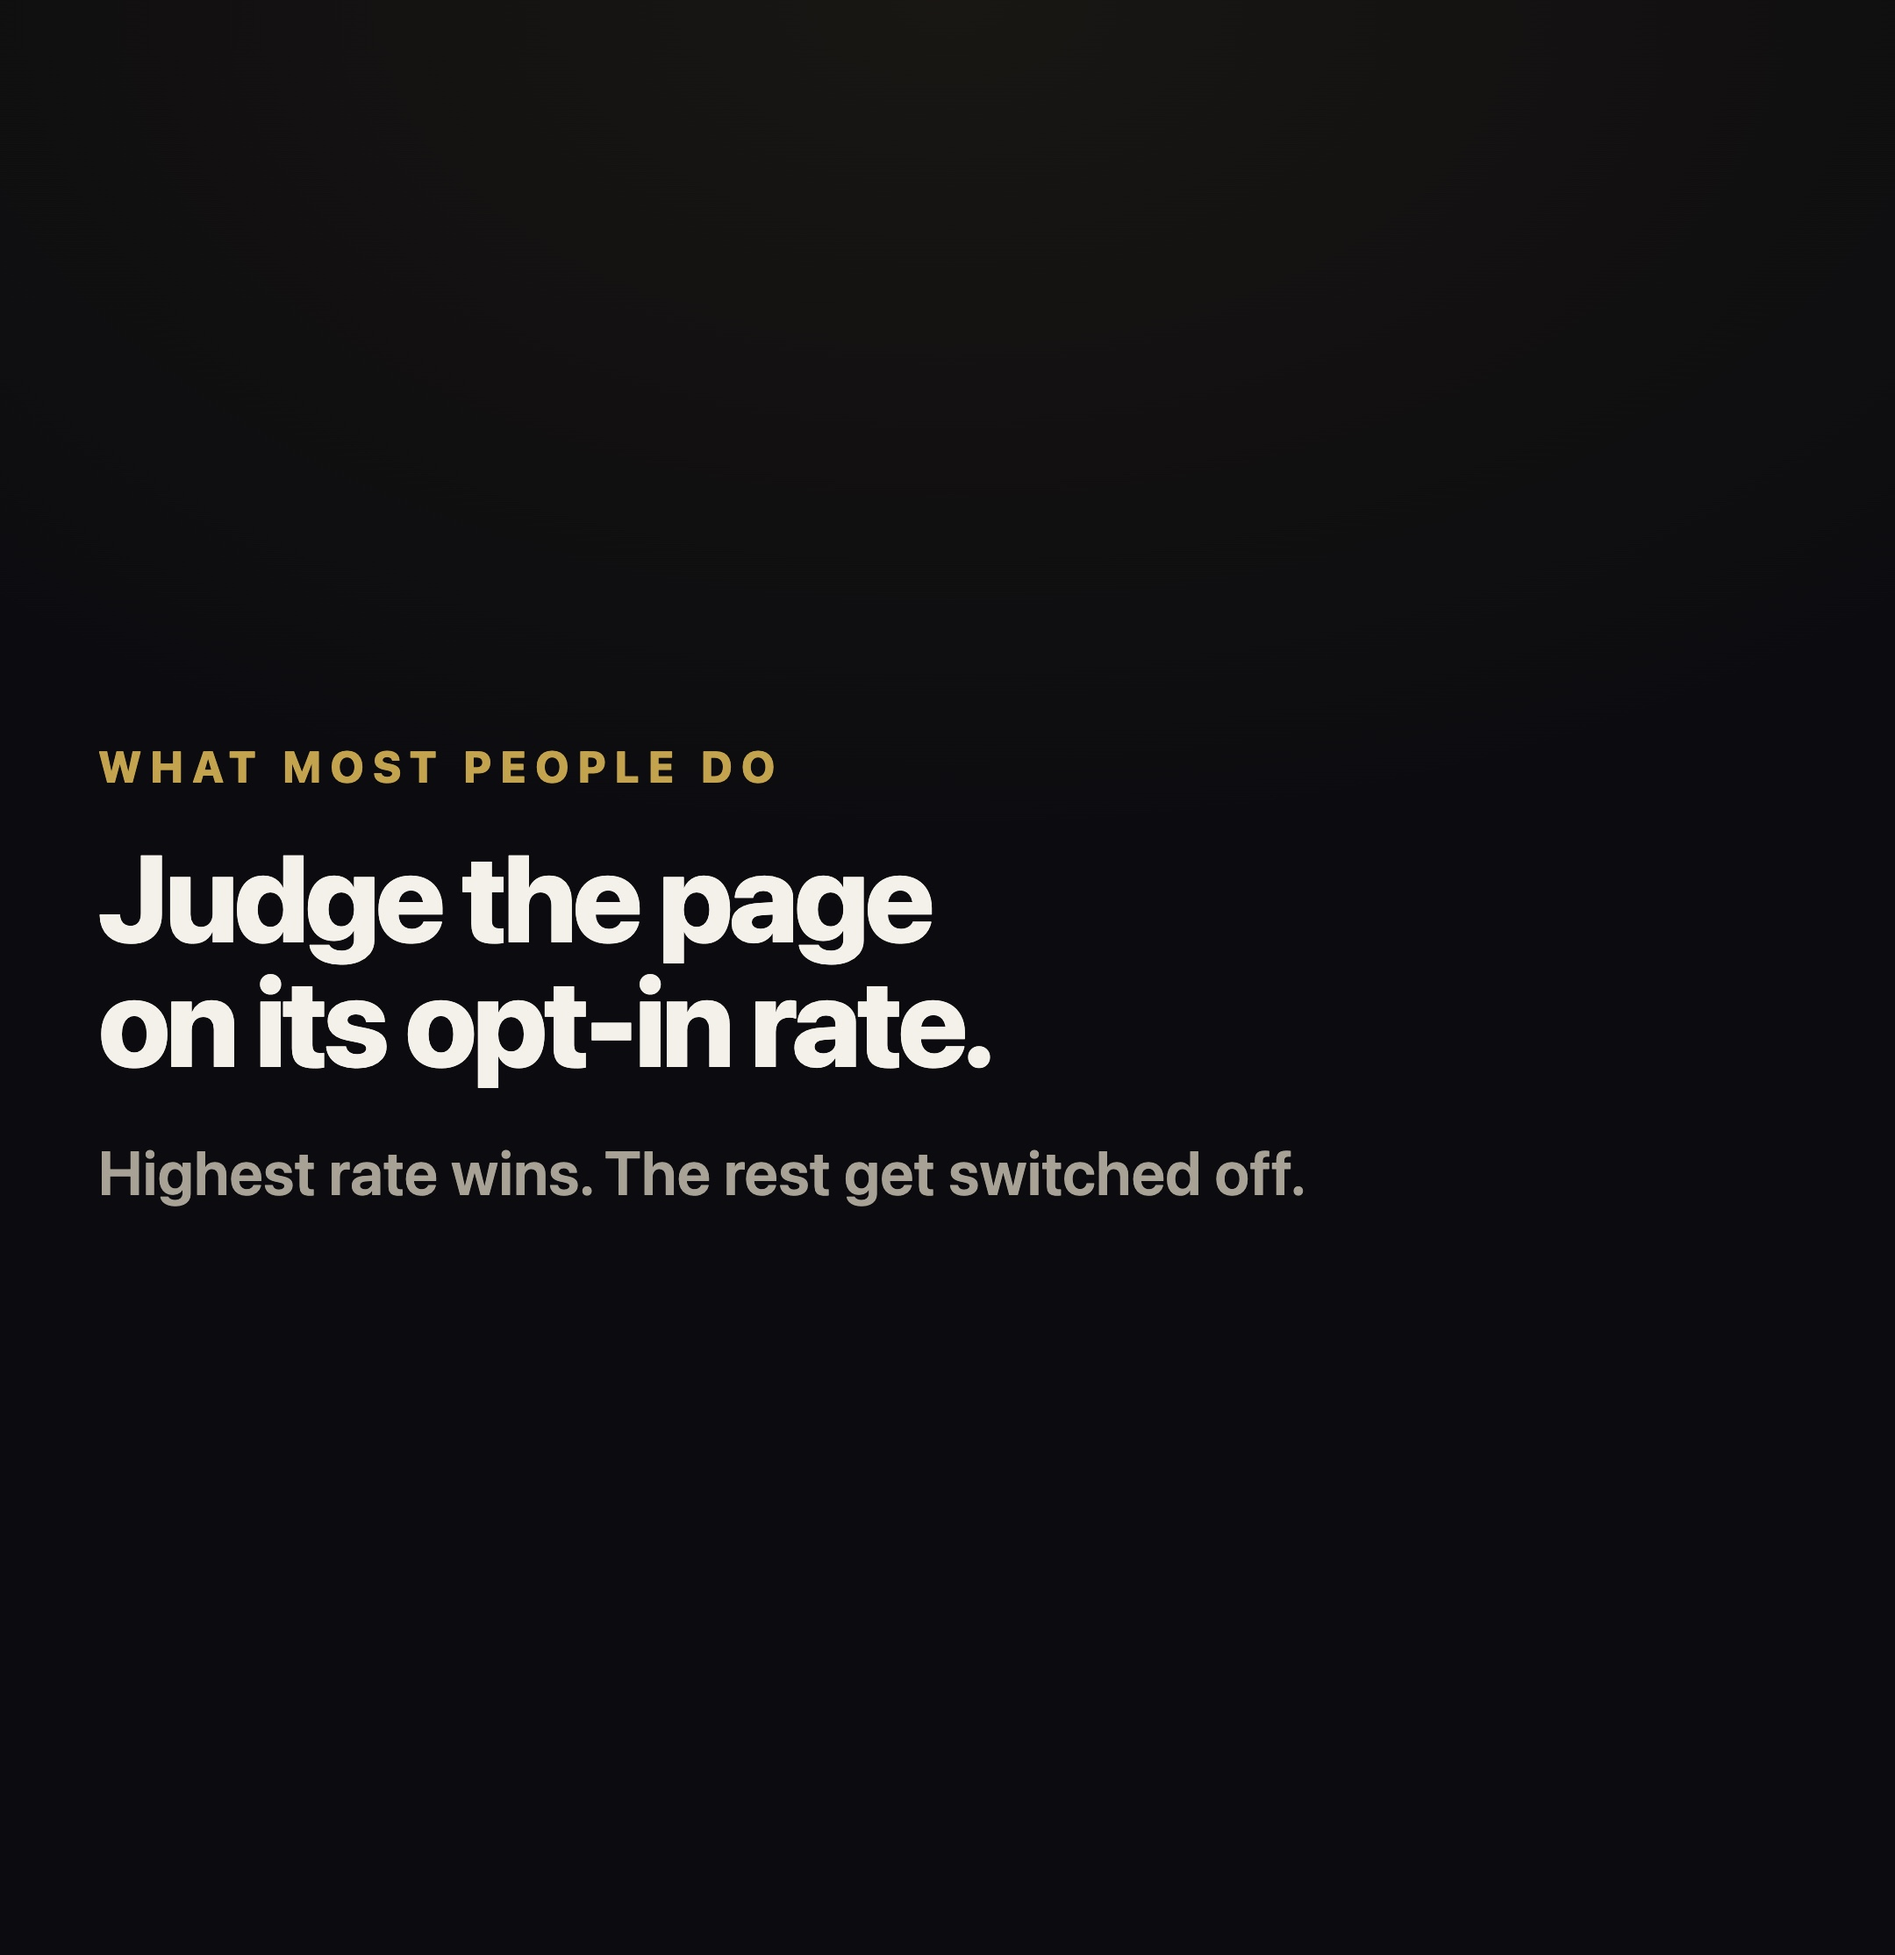
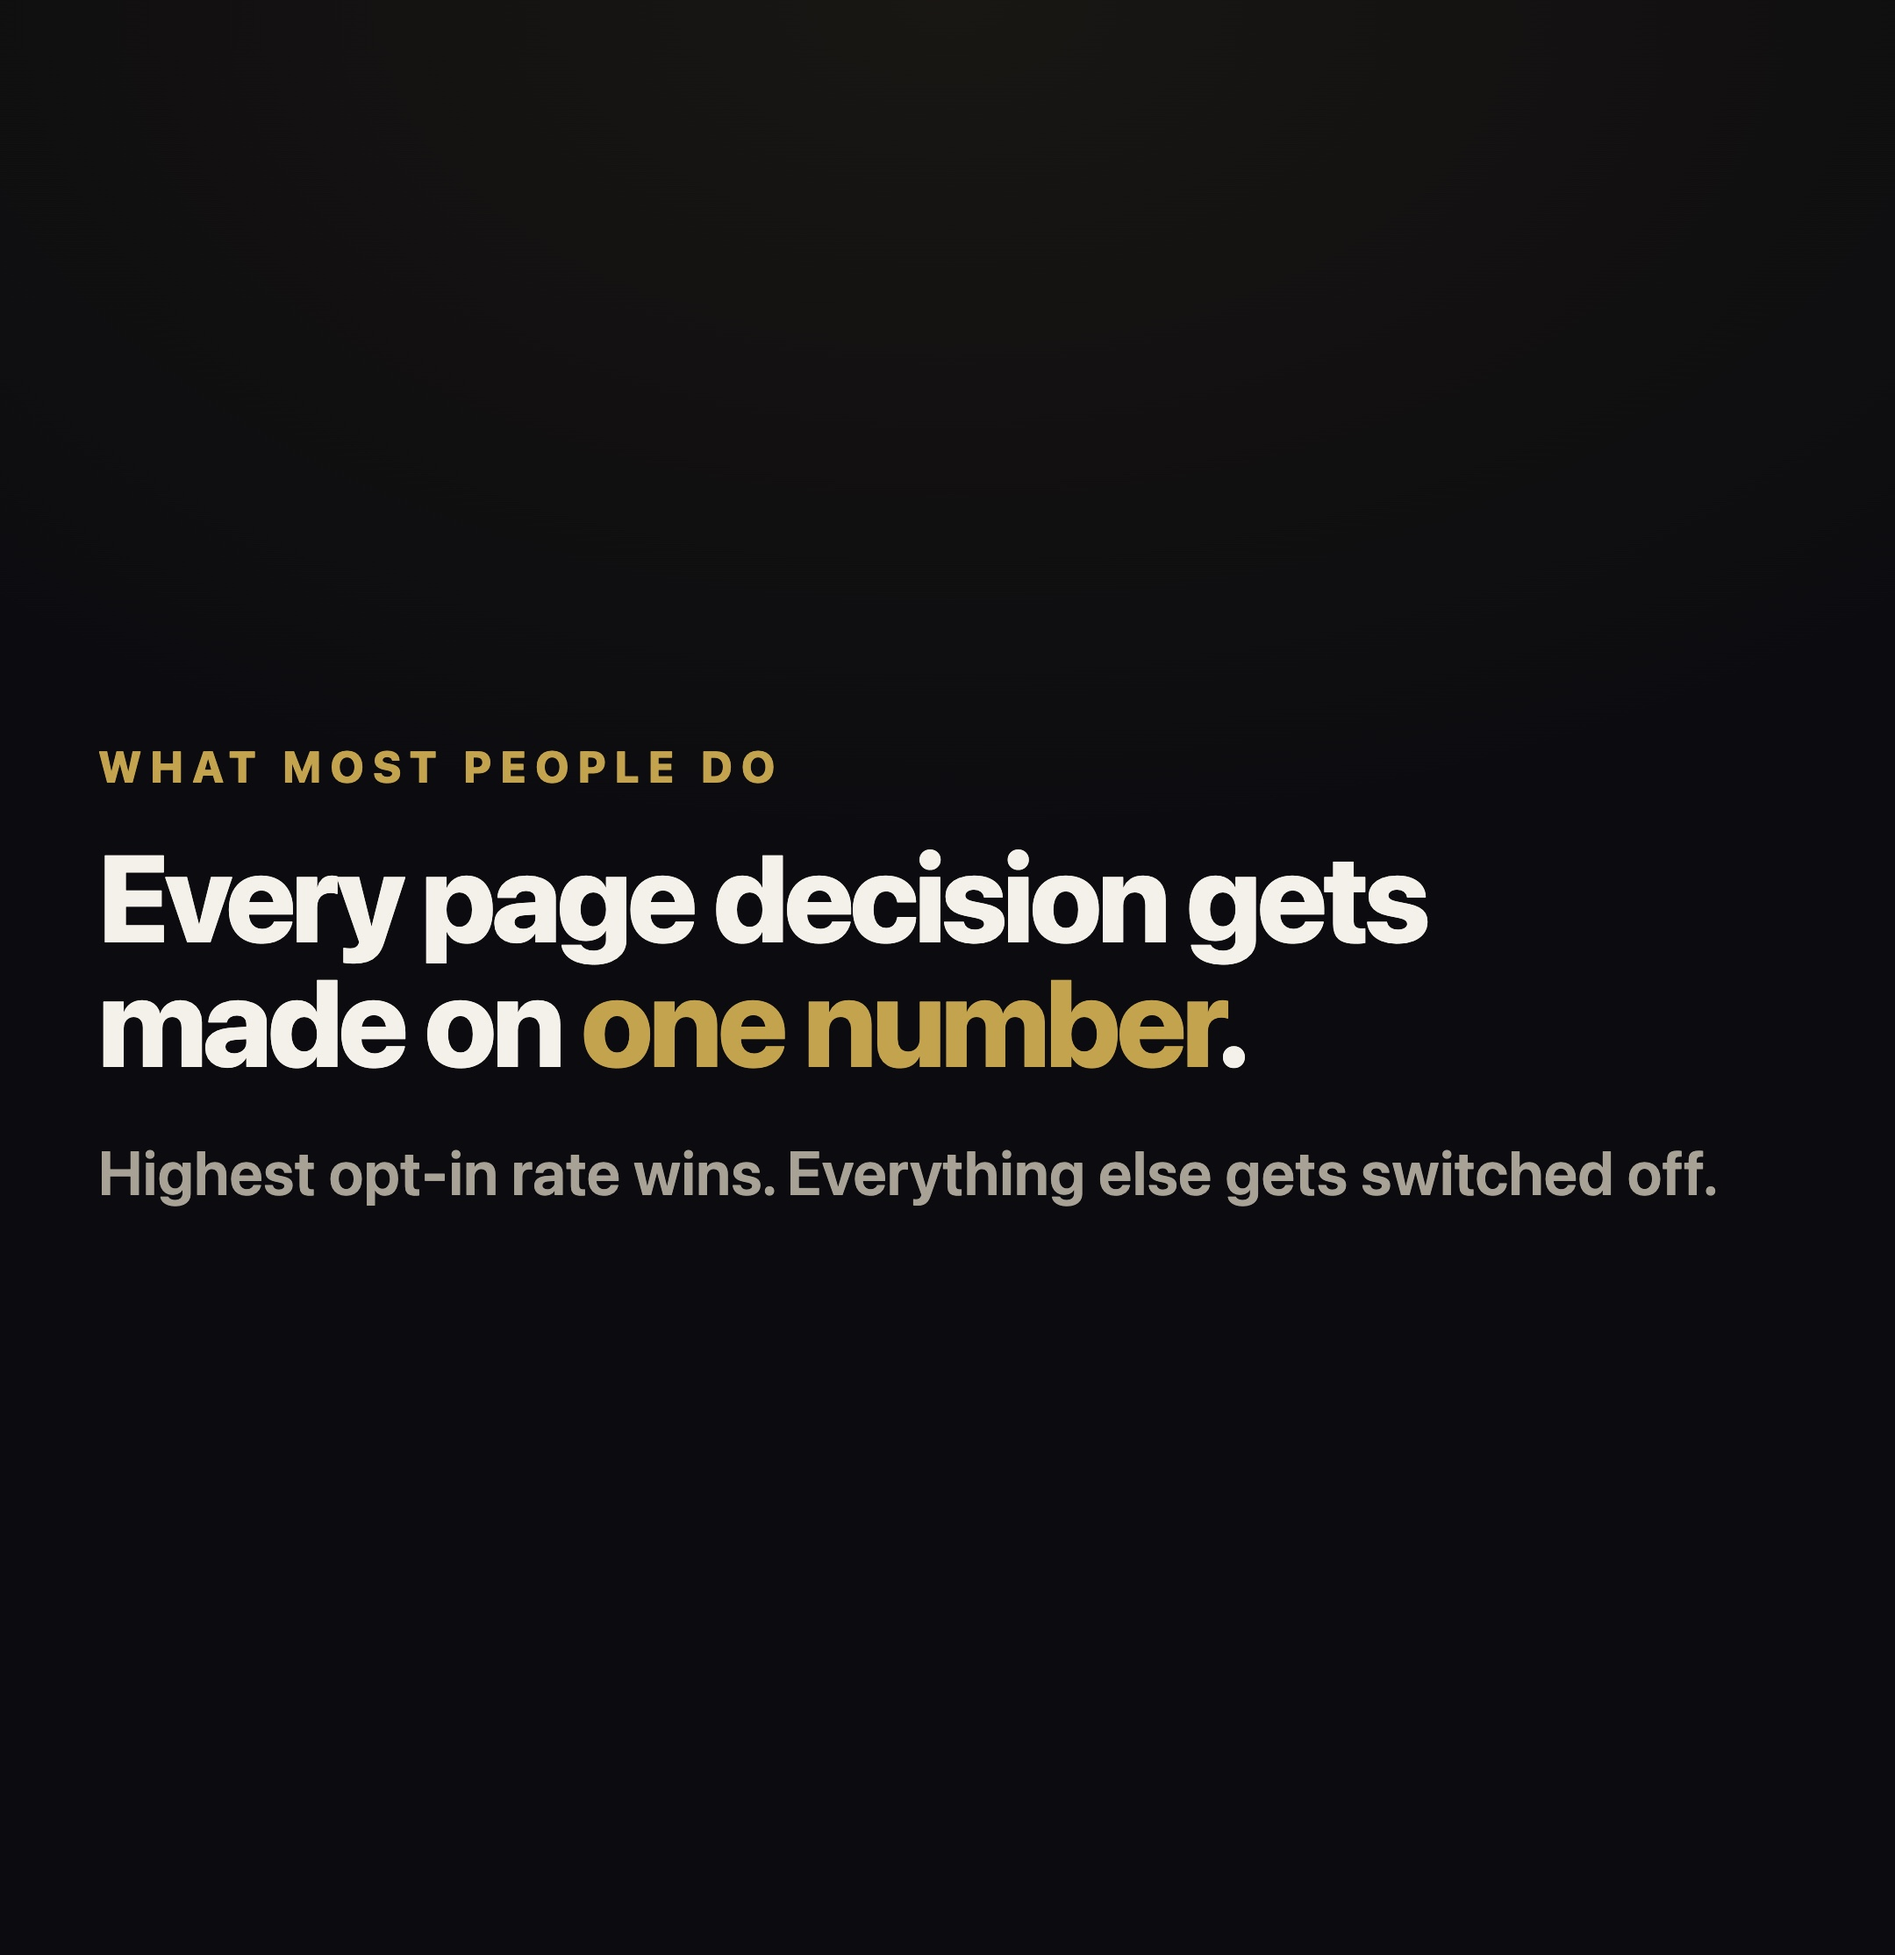
optin-rate slide 2: 'every page decision gets made on one number'
'Judge the page on its opt-in rate' was flat. The new line names the
behaviour rather than describing it, and 'one number' sets up the payoff
later when the video shows it is the wrong number.

Claude-Session: https://claude.ai/code/session_01JyUvhGiU74myjNDStH3gj5

Changed region(s): [[0.031, 0.4336, 0.7755, 0.5575], [0.1861, 0.5884, 0.8995, 0.6194]]

diff --git a/index.html b/index.html
@@ -119,7 +119,7 @@
   // Beat 1 must put something checkable on screen, with a date.
   // Load a specific board with ?b=<slug>.
   // ---------------------------------------------------------------
-  var ASSET_V = '10';   // bump whenever a frame image is re-rendered
+  var ASSET_V = '11';   // bump whenever a frame image is re-rendered
 
   var BOARDS = {
 
@@ -218,7 +218,7 @@
       name: 'Opt-in rate \u00b7 why qualified opt-in rate is the one that counts',
       beats: [
         {img:'img/opt1.jpg', s:"Stop tracking webinar opt-in rates. Start tracking qualified opt-in rates. Let me explain."},
-        {img:'img/opt2.jpg', s:"Here's what most people do. You judge the page on its opt-in rate. Highest rate wins, and the rest get switched off."},
+        {img:'img/opt2.jpg', s:"Because right now, every page decision gets made on one number. Highest opt-in rate wins, and everything else gets switched off."},
         {img:'img/opt3.jpg', s:"So take three pages. Page C opts in at twenty percent, Page B at fifteen, Page A at ten. Which one do you switch off? Everybody kills Page A. It's half the rate of the winner."},
         {img:'img/opt4.jpg', s:"Now here's the number nobody looks at. How many of those people actually qualified. Page A, seventy percent. Page B, thirty five. Page C, thirty. The page with the worst opt-in rate has more than double the qualified rate."},
         {img:'img/opt5.jpg', s:"So run it at a thousand visitors each. Page A opts in a hundred people, seventy of them qualify. Page B opts in a hundred and fifty, fifty three qualify. Page C opts in two hundred, sixty qualify. Page A has half the opt-in rate of Page C and it brings you more qualified people than either of them."},

diff --git a/frames-optinrate.html b/frames-optinrate.html
@@ -86,8 +86,8 @@
 
 <div class="f" id="o2">
   <div class="eb">What most people do</div>
-  <h1 class="sm">Judge the page on its opt-in rate.</h1>
-  <div class="sub">Highest rate wins. The rest get switched off.</div>
+  <h1 class="sm">Every page decision gets made on <span>one number</span>.</h1>
+  <div class="sub">Highest opt-in rate wins. Everything else gets switched off.</div>
 </div>
 
 <div class="f" id="o3">
